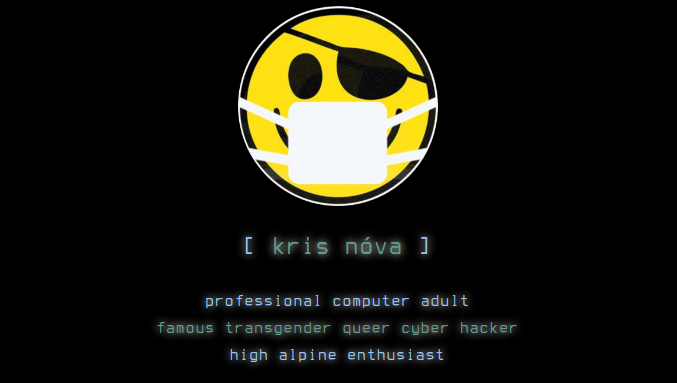
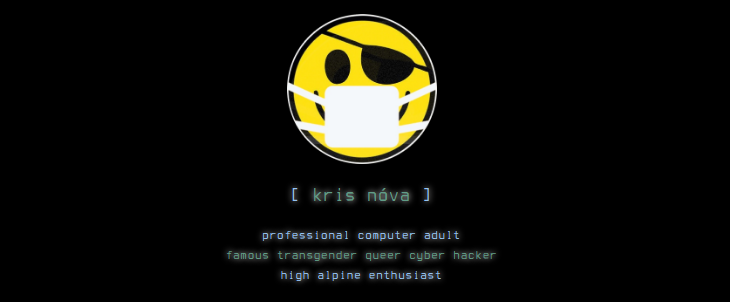
important meta hacks

diff --git a/layouts/partials/head.html b/layouts/partials/head.html
@@ -1,13 +1,8 @@
 <meta http-equiv="content-type" content="text/html; charset=utf-8" />
 <meta name="viewport" content="width=device-width, initial-scale=1.0" />
-<meta
-  name="description"
-  content="{{ $.Site.Params.Description }}"
-/>
-<meta
-  name="keywords"
-  content="{{ with .Params.Keywords }}{{ delimit . ", " }}{{ else }}{{ $.Site.Params.Keywords }}{{ end }}"
-/>
+
+{{- partial "head_meta.html" . }}
+
 <meta name="robots" content="noodp" />
 <link rel="canonical" href="{{ .Permalink }}" />
 
@@ -26,22 +21,14 @@
   href="{{ "img/apple-touch-icon-144-precomposed.png" | absURL }}"
 />
 <link rel="shortcut icon" href="{{ "favicon.ico" | absURL }}" />
-<link href="{{ "assets/fonts/Inter-Italic.woff2" | absURL }}" rel="preload" type="font/woff2" as="font" crossorigin="">
-<link href="{{ "assets/fonts/Inter-Regular.woff2" | absURL }}" rel="preload" type="font/woff2" as="font" crossorigin="">
-<link href="{{ "assets/fonts/Inter-Medium.woff2" | absURL }}" rel="preload" type="font/woff2" as="font" crossorigin="">
-<link href="{{ "assets/fonts/Inter-MediumItalic.woff2" | absURL }}" rel="preload" type="font/woff2" as="font" crossorigin="">
-<link href="{{ "assets/fonts/Inter-Bold.woff2" | absURL }}" rel="preload" type="font/woff2" as="font" crossorigin="">
-<link href="{{ "assets/fonts/Inter-BoldItalic.woff2" | absURL }}" rel="preload" type="font/woff2" as="font" crossorigin="">
 
-<meta name="twitter:image" content="https://nivenly.com/assets/img/card.png"/>
-<meta name="twitter:card" content="offical website of kris nóva"/>
-<meta name="twitter:title" content="nivenly.com"/>
-<meta name="twitter:description" content="{{ $.Site.Params.Description }}" />
-<meta property="og:image" content="https://nivenly.com/assets/img/card.png" />
-<meta property="og:title" content="nivenly.com" />
-<meta property="og:description" content="{{ $.Site.Params.Description }}" />
-<meta property="og:type" content="website" />
-<meta property="og:url" content="/" /><meta property="og:site_name" content="nivenly.com" />
+{{ if .IsHome  }}
+  {{- partial "head_meta_twitter_large.html" . }}
+{{ else if eq .URL "/live/" }}
+  {{- partial "head_meta_twitter_live.html" . }}
+{{ else }}
+  {{- partial "head_meta_twitter.html" . }}
+{{ end }}
 
 
 <!-- RSS | JSON -->

diff --git a/layouts/partials/head_meta_twitter_large.html b/layouts/partials/head_meta_twitter_large.html
@@ -1,0 +1,26 @@
+
+
+
+<!-- Twitter Summary Card -->
+<meta name="twitter:image" content="https://nivenly.com/assets/img/card.png"/>
+<meta name="twitter:card" content="summary_large_image">
+<meta name="twitter:title" content="nivenly.com"/>
+<meta name="twitter:creator" content="@krisnova">
+<meta name="twitter:site" content="@krisnova">
+
+<meta property="og:image" content="https://nivenly.com/assets/img/card.png" />
+<meta property="og:title" content="nivenly.com" />
+<meta property="og:type" content="website" />
+<meta property="og:url" content="/" /><meta property="og:site_name" content="nivenly.com" />
+
+{{ if .IsHome }}
+<meta name="twitter:title" content="official @krisnóva website [genuine, approved, legitimate]"/>
+<meta name="twitter:description" content="1' and 1=1;- - {{ $.Site.Params.Description }}" />
+<meta property="og:description" content="1' and 1=1;- -{{ $.Site.Params.Description }}" />
+<meta property="og:title" content="official @krisnóva website [genuine, approved, legitimate]" />
+{{ else }}
+<meta name="twitter:title" content="{{ .Title | plainify }}"/>
+<meta name="twitter:description" content="{{ .Summary | plainify }}"/>
+<meta property="og:description" content="{{ with .Params.Keywords }}{{ delimit . ", " }}{{ else }}{{ $.Site.Params.Keywords }}{{ end }}"/>
+<meta property="og:title" content="{{ .Title | plainify }}" />
+{{ end }}

diff --git a/layouts/partials/head_meta_twitter.html b/layouts/partials/head_meta_twitter.html
@@ -1,0 +1,24 @@
+
+
+
+<!-- Twitter Summary Card -->
+<meta name="twitter:image" content="https://nivenly.com/assets/img/logo.png"/>
+<meta name="twitter:card" content="summary">
+<meta name="twitter:creator" content="@krisnova">
+<meta name="twitter:site" content="@krisnova">
+
+<meta property="og:image" content="https://nivenly.com/assets/img/logo.png" />
+<meta property="og:type" content="website" />
+<meta property="og:url" content="/" /><meta property="og:site_name" content="nivenly.com" />
+
+{{ if .IsHome }}
+    <meta name="twitter:title" content="official @krisnóva website [genuine, approved, legitimate]"/>
+    <meta name="twitter:description" content="{{ $.Site.Params.Description }}" />
+    <meta property="og:description" content="{{ $.Site.Params.Description }}" />
+    <meta property="og:title" content="official @krisnóva website [genuine, approved, legitimate]" />
+{{ else }}
+    <meta name="twitter:title" content="{{ .Title | plainify }}"/>
+    <meta name="twitter:description" content="{{ .Summary | plainify }}"/>
+    <meta property="og:description" content="{{ with .Params.Keywords }}{{ delimit . ", " }}{{ else }}{{ $.Site.Params.Keywords }}{{ end }}"/>
+    <meta property="og:title" content="{{ .Title | plainify }}" />
+{{ end }}

diff --git a/layouts/partials/head_meta_twitter_live.html b/layouts/partials/head_meta_twitter_live.html
@@ -1,0 +1,19 @@
+
+
+
+<!-- Twitter Player Card-->
+<meta name="twitter:image" content="https://nivenly.com/assets/img/logo.png" />
+<meta name="twitter:card" content="player" />
+<meta name="twitter:title" content="live in your face [urgent, time sensitive, official]" />
+<meta name="twitter:player" content="https://player.twitch.tv/?channel=krisnova&html5&muted=true&quality=mobile&parent=twitter.com&parent=cards-frame.twitter.com&parent=cards-dev.twitter.com&parent=tweetdeck.twitter.com" />
+<meta name="twitter:player:width" content="360" />
+<meta name="twitter:player:height" content="200" />
+
+<meta property="og:image" content="https://nivenly.com/assets/img/logo.png" />
+<meta property="og:title" content="live in your face [urgent, time sensitive, official]" />
+<meta property="og:type" content="website" />
+<meta property="og:url" content="/" /><meta property="og:site_name" content="nivenly.com" />
+
+
+<meta name="twitter:description" content="cute linux hacker with a nice rack. kubernetes, security, linux, go, rust, c/c++. very serious."/>
+<meta property="og:description" content="cute linux hacker with a nice rack. kubernetes, security, linux, go, rust, c/c++. very serious."/>

diff --git a/layouts/_default/index.html b/layouts/_default/index.html
@@ -21,7 +21,7 @@
     </div>
 
     <div class="home-body">
-        <div>
+        <div class="static-cell">
             <div class="static-title">
                 <span class="logo-punc">[</span>
                 <span class="logo-user">
@@ -38,7 +38,7 @@
                 kubernetes, hacking, capitalism<br>
             </div>
         </div>
-        <div>
+        <div class="static-cell">
             <div class="static-title">
                 <span class="logo-punc">[</span>
                 <span class="logo-user">
@@ -56,7 +56,7 @@
                 live in pacific time, follow on <a href="https://twitter.com/krisnova">twitter</a> for updates<br>
             </div>
         </div>
-        <div>
+        <div class="static-cell">
             <div class="static-title">
                 <span class="logo-punc">[</span>
                 <span class="logo-user">

diff --git a/layouts/partials/head_meta.html b/layouts/partials/head_meta.html
@@ -1,0 +1,10 @@
+
+
+{{ if .IsHome }}
+    <meta name="description" content="{{ $.Site.Params.Description }}"/>
+    <meta name="keywords" content="{{ with .Params.Keywords }}{{ delimit . ", " }}{{ else }}{{ $.Site.Params.Keywords }}{{ end }}"/>
+{{ else }}
+    <meta name="description" content="{{ .Summary | plainify }}"/>
+    <meta name="keywords" content="{{ with .Params.Keywords }}{{ delimit . ", " }}{{ else }}{{ $.Site.Params.Keywords }}{{ end }}"/>
+{{ end }}
+

diff --git a/layouts/_default/list.html b/layouts/_default/list.html
@@ -49,7 +49,7 @@
         {{ end }}
 
         <div class="post-content">
-          {{ with .Description }}
+          {{ with .Summary }}
             {{ . | markdownify }}
             {{ else }}
             {{ if .Truncated }}

diff --git a/static/assets/style.css b/static/assets/style.css
@@ -484,10 +484,14 @@ a.read-more:hover {
 
 }
 
+.static-cell {
+    padding-top: 20px;
+}
+
 .static-title {
+    padding-top: 10px;
     font-family: Nova;
     font-size: 1.5rem;
-    padding-bottom: 20px;
 }
 
 .static-body {

diff --git a/content/contrib.md b/content/contrib.md
@@ -1,8 +1,10 @@
-+++
-title = "contributions"
-date = "2021-02-27"
-author = "kris nóva"
-+++
+---
+title: "contributions"
+date: "2021-02-27"
+author: "kris nóva"
+keywords: "contrib, twitch, mods, help, contributors, moderators"
+summary: "official kris nóva contributors page"
+---
 
  - [@panr](https://github.com/panr) for the original `hello-friend` theme
  - [@thejsa](https://github.com/thejsa) for the help with JavaScript, HTML, and CSS

diff --git a/content/lib/rejection-fucking-sucks.md b/content/lib/rejection-fucking-sucks.md
@@ -2,7 +2,8 @@
 title: "rejection fucking sucks"
 date: "2021-03-02"
 author: "kris nóva"
-description: "I am very good at putting on makeup to make myself look glamorous. However, at the end of the day I am a horrible smelly pirate wench."
+keywords: "rejection, cfp, kubecon, kris nova"
+summary: "quick post about rejection"
 ---
 ---
 

diff --git a/content/lib/2021-03-20-pronouns.md b/content/lib/2021-03-20-pronouns.md
@@ -2,6 +2,8 @@
 title: my pronouns are irrelevant
 date: "2021-03-20"
 author: "kris nóva"
+keywords: "transgender, trauma, sex, surgery, pronouns, graphic, ffs, facial feminization surgery"
+summary: "deep writing about transgender issues, pronouns, and facial feminization surgery"
 ---
 ---
 # severe content warning

diff --git a/content/lib/zfs-archlinux-kubernetes.md b/content/lib/zfs-archlinux-kubernetes.md
@@ -2,6 +2,8 @@
 title: "persistent state with ZFS on archlinux with kubernetes"
 date: "2021-03-01"
 author: "kris nóva"
+keywords: "kubernetes, zfs, linux, archlinux, persistent, state, storage, volumes, sshfs, provider, bare metal, metal"
+summary: "setting up ZFS for kubernetes on archlinux"
 ---
 ---
 
